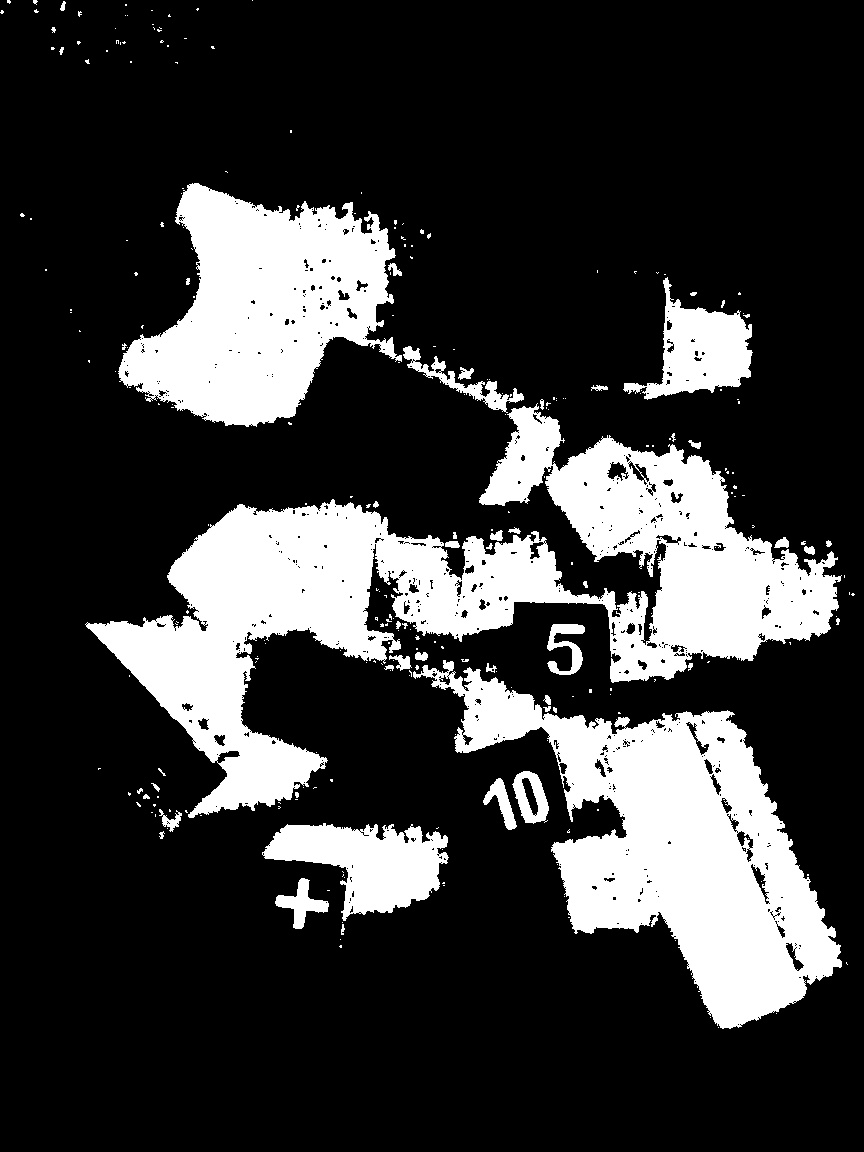
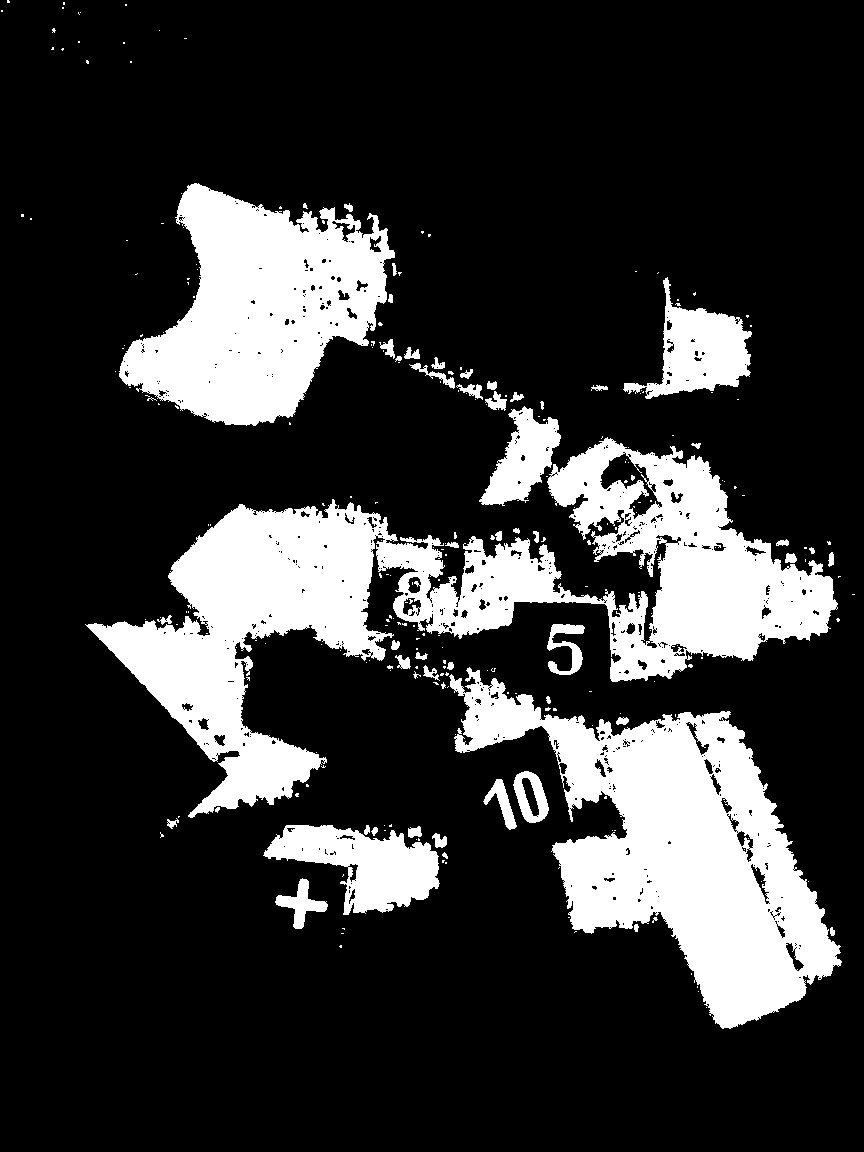
Ulepszone generowanie maski

diff --git a/BlocksDetector.cpp b/BlocksDetector.cpp
@@ -28,7 +28,7 @@ cv::Mat hsvThreshold(cv::Mat source)
 
     int lowH = 0; //0
     int highH = 15; //15 -- hist 25/27
-    int lowS = 95;//95 --hist 55
+    int lowS = 106;//95 --hist 55 #new 107
     int highS = 230;//230
     int highV = 210;//190
 
@@ -63,23 +63,14 @@ int main(int, char* [])
     for (int i = 0; i < images.size(); i++)
     {
         cv::Mat image = images[i];
-        cv::Mat image1;
-        image1 = Filter::rankFilter(image, 3, 2);
 
-        //std::vector<cv::Mat> bgr = std::vector<cv::Mat>();   //destination array
-        //split(image1, bgr);//split source
-        //cv::equalizeHist(bgr[0], bgr[0]);
-        //cv::equalizeHist(bgr[1], bgr[1]);
-        //cv::equalizeHist(bgr[2], bgr[2]);
-        //cv::Mat eqHistImage;
-        //cv::merge(bgr, eqHistImage);
+        image = Filter::rankFilter(image, 3, 2);
+        showImage(image, "rank" + std::to_string(i));
+        cv::imwrite("rank" + std::to_string(i) + ".jpg", image);
 
-        showImage(image1, "rank" + std::to_string(i));
-        cv::imwrite("rank" + std::to_string(i) + ".jpg", image1);
-        cv::Mat image2 = hsvThreshold(image1);
-
-        showImage(image2, std::to_string(i));
-        cv::imwrite("out" + std::to_string(i) + ".jpg", image2);
+        image = hsvThreshold(image);
+        showImage(image, std::to_string(i));
+        cv::imwrite("out" + std::to_string(i) + ".jpg", image);
     }
     
 
